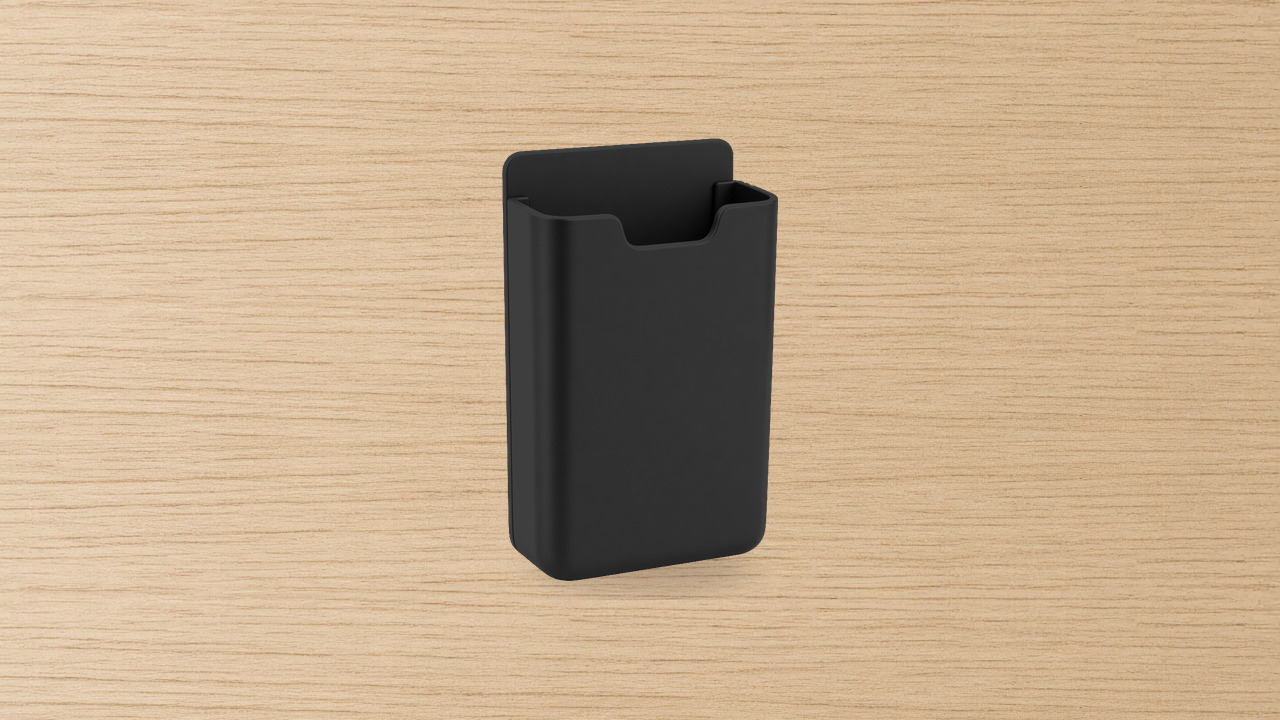
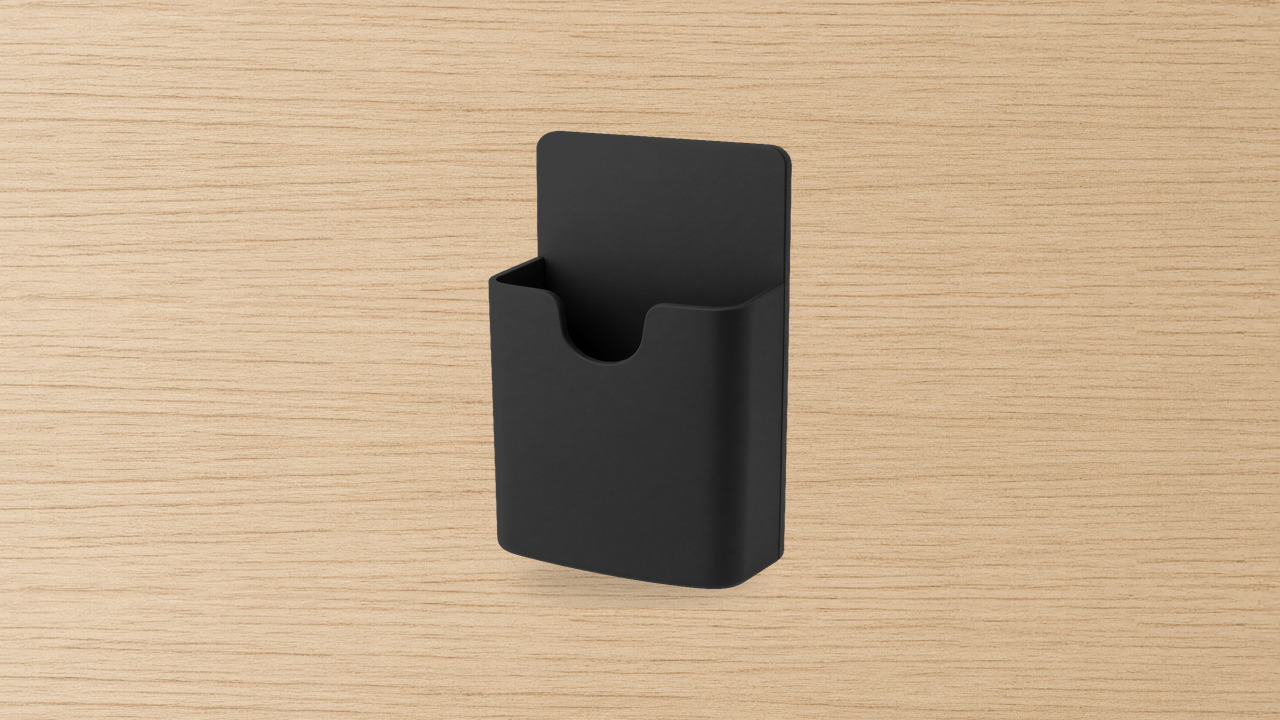
Lower the Fridge Holder front wall and round the U (#67)
Show about 30% of the back panel above the cup, use a smooth rounded U-cutout, and keep the holder about 1.5 times taller than wide. Cache ?v=2.69.

Changed region(s): [[0.375, 0.1833, 0.625, 0.825]]

diff --git a/index.html b/index.html
@@ -9,7 +9,7 @@
   <link rel="preconnect" href="https://fonts.googleapis.com">
   <link rel="preconnect" href="https://fonts.gstatic.com" crossorigin>
   <link href="https://fonts.googleapis.com/css2?family=DM+Sans:opsz,wght@9..40,600&family=Fraunces:opsz,wght@9..144,600&family=Nunito+Sans:wght@500;700;800&display=swap" rel="stylesheet">
-  <link rel="stylesheet" href="css/styles.css?v=2.68">
+  <link rel="stylesheet" href="css/styles.css?v=2.69">
 </head>
 <body>
   <div id="site-header"></div>
@@ -35,7 +35,7 @@
       </a>
       <a class="card" href="weekly.html">
         <div class="thumb thumb-board" aria-hidden="true">
-          <img src="images/weekly-hero.png?v=2.68" width="1280" height="720" alt="">
+          <img src="images/weekly-hero.png?v=2.69" width="1280" height="720" alt="">
         </div>
         <h3>Weekly</h3>
         <p class="muted">Days as rows, people as columns. Empty cells for writing in with the pen.</p>
@@ -59,7 +59,7 @@
       </a>
       <a class="card" href="house-rules.html">
         <div class="thumb thumb-board" aria-hidden="true">
-          <img src="images/house-rules-hero.png?v=2.68" width="1280" height="720" alt="">
+          <img src="images/house-rules-hero.png?v=2.69" width="1280" height="720" alt="">
         </div>
         <h3>House Rules</h3>
         <p class="muted">A5. Header plus empty write-in lines. No pre-filled rules.</p>
@@ -127,7 +127,7 @@
       </a>
       <a class="card" href="coloured-pen-pack.html">
         <div class="thumb thumb-board thumb-pen" aria-hidden="true">
-          <img src="images/coloured-pen-pack-hero.jpg?v=2.68" width="1280" height="720" alt="">
+          <img src="images/coloured-pen-pack-hero.jpg?v=2.69" width="1280" height="720" alt="">
         </div>
         <h3>Coloured Pen 8 Pack</h3>
         <p class="muted">Eight mini dry-erase pens. White barrel, coloured caps.</p>
@@ -135,7 +135,7 @@
       </a>
       <a class="card" href="fridge-holder.html">
         <div class="thumb thumb-board" aria-hidden="true">
-          <img src="images/fridge-holder-hero.jpg?v=2.68" width="1280" height="720" alt="Tall narrow black matte magnetic pen holder with a tall front wall, small U-cutout and rounded back corners, empty, on old wood.">
+          <img src="images/fridge-holder-hero.jpg?v=2.69" width="1280" height="720" alt="Tall narrow black matte magnetic pen holder with a tall front wall, small U-cutout and rounded back corners, empty, on old wood.">
         </div>
         <h3>Fridge Holder</h3>
         <p class="muted">The holder that sticks on the fridge. No pens.</p>
@@ -145,7 +145,7 @@
     </section>
   </main>
   <footer id="site-footer" class="wrap"></footer>
-  <script src="js/store.js?v=2.68"></script>
-  <script src="js/site.js?v=2.68"></script>
+  <script src="js/store.js?v=2.69"></script>
+  <script src="js/site.js?v=2.69"></script>
 </body>
 </html>

diff --git a/weekly.html b/weekly.html
@@ -9,7 +9,7 @@
   <link rel="preconnect" href="https://fonts.googleapis.com">
   <link rel="preconnect" href="https://fonts.gstatic.com" crossorigin>
   <link href="https://fonts.googleapis.com/css2?family=DM+Sans:ital,opsz,wght@0,9..40,500;0,9..40,600;0,9..40,700;1,9..40,500&family=Fraunces:opsz,wght@9..144,600&family=Nunito+Sans:wght@500;700;800&display=swap" rel="stylesheet">
-  <link rel="stylesheet" href="css/styles.css?v=2.68">
+  <link rel="stylesheet" href="css/styles.css?v=2.69">
 </head>
 <body>
   <div id="site-header"></div>
@@ -17,7 +17,7 @@
     <div>
       <div id="hero-stage" class="board-stage photo-stage mount-magnetic size-a4" role="region" aria-label="Weekly board on light wood.">
         <figure id="board-hero" class="hero-photo-frame board-a4 mount-magnetic">
-          <img src="images/weekly-hero.png?v=2.68" width="1280" height="720" alt="Thin white magnetic weekly sheet on light wood, same width as the Routines picture. Mon–Sun day tiles as rows; thin name tiles Georgia, Caleb, and Isaac across the top; empty cells for writing in with the pen.">
+          <img src="images/weekly-hero.png?v=2.69" width="1280" height="720" alt="Thin white magnetic weekly sheet on light wood, same width as the Routines picture. Mon–Sun day tiles as rows; thin name tiles Georgia, Caleb, and Isaac across the top; empty cells for writing in with the pen.">
         </figure>
       </div>
       <p id="hero-caption">3 people · A4</p>
@@ -45,8 +45,8 @@
     </aside>
   </main>
   <footer id="site-footer" class="wrap"></footer>
-  <script src="js/store.js?v=2.68"></script>
-  <script src="js/site.js?v=2.68"></script>
-  <script src="js/photo-board.js?v=2.68"></script>
+  <script src="js/store.js?v=2.69"></script>
+  <script src="js/site.js?v=2.69"></script>
+  <script src="js/photo-board.js?v=2.69"></script>
 </body>
 </html>

diff --git a/coloured-pen-pack.html b/coloured-pen-pack.html
@@ -9,7 +9,7 @@
   <link rel="preconnect" href="https://fonts.googleapis.com">
   <link rel="preconnect" href="https://fonts.gstatic.com" crossorigin>
   <link href="https://fonts.googleapis.com/css2?family=DM+Sans:opsz,wght@9..40,600&family=Fraunces:opsz,wght@9..144,600&family=Nunito+Sans:wght@500;700;800&display=swap" rel="stylesheet">
-  <link rel="stylesheet" href="css/styles.css?v=2.68">
+  <link rel="stylesheet" href="css/styles.css?v=2.69">
 </head>
 <body>
   <div id="site-header"></div>
@@ -17,7 +17,7 @@
     <div>
       <div class="board-stage photo-stage" role="region" aria-label="Coloured Pen 8 Pack.">
         <figure class="hero-photo-frame">
-          <img src="images/coloured-pen-pack-hero.jpg?v=2.68" width="1280" height="720" alt="Eight slim mini dry-erase pens standing on light wood: white barrels with purple, red, orange, yellow, green, pink, blue, and black caps and matching coloured ends. No holder and no logo on the pens.">
+          <img src="images/coloured-pen-pack-hero.jpg?v=2.69" width="1280" height="720" alt="Eight slim mini dry-erase pens standing on light wood: white barrels with purple, red, orange, yellow, green, pink, blue, and black caps and matching coloured ends. No holder and no logo on the pens.">
         </figure>
       </div>
     </div>
@@ -33,8 +33,8 @@
     </aside>
   </main>
   <footer id="site-footer" class="wrap"></footer>
-  <script src="js/store.js?v=2.68"></script>
-  <script src="js/site.js?v=2.68"></script>
-  <script src="js/photo-pack.js?v=2.68"></script>
+  <script src="js/store.js?v=2.69"></script>
+  <script src="js/site.js?v=2.69"></script>
+  <script src="js/photo-pack.js?v=2.69"></script>
 </body>
 </html>

diff --git a/house-rules.html b/house-rules.html
@@ -9,7 +9,7 @@
   <link rel="preconnect" href="https://fonts.googleapis.com">
   <link rel="preconnect" href="https://fonts.gstatic.com" crossorigin>
   <link href="https://fonts.googleapis.com/css2?family=DM+Sans:ital,opsz,wght@0,9..40,500;0,9..40,600;0,9..40,700;1,9..40,500&family=Fraunces:opsz,wght@9..144,600&family=Nunito+Sans:wght@500;700;800&display=swap" rel="stylesheet">
-  <link rel="stylesheet" href="css/styles.css?v=2.68">
+  <link rel="stylesheet" href="css/styles.css?v=2.69">
 </head>
 <body>
   <div id="site-header"></div>
@@ -17,7 +17,7 @@
     <div>
       <div id="hero-stage" class="board-stage photo-stage mount-magnetic size-a5" role="region" aria-label="House Rules board on light wood.">
         <figure id="board-hero" class="hero-photo-frame board-a5 mount-magnetic">
-          <img src="images/house-rules-hero.png?v=2.68" width="1280" height="720" alt="Thin white magnetic House Rules sheet on light wood. House Rules title and empty write-in lines only.">
+          <img src="images/house-rules-hero.png?v=2.69" width="1280" height="720" alt="Thin white magnetic House Rules sheet on light wood. House Rules title and empty write-in lines only.">
         </figure>
       </div>
       <p id="hero-caption">A5</p>
@@ -37,8 +37,8 @@
     </aside>
   </main>
   <footer id="site-footer" class="wrap"></footer>
-  <script src="js/store.js?v=2.68"></script>
-  <script src="js/site.js?v=2.68"></script>
-  <script src="js/photo-board.js?v=2.68"></script>
+  <script src="js/store.js?v=2.69"></script>
+  <script src="js/site.js?v=2.69"></script>
+  <script src="js/photo-board.js?v=2.69"></script>
 </body>
 </html>

diff --git a/fridge-holder.html b/fridge-holder.html
@@ -9,7 +9,7 @@
   <link rel="preconnect" href="https://fonts.googleapis.com">
   <link rel="preconnect" href="https://fonts.gstatic.com" crossorigin>
   <link href="https://fonts.googleapis.com/css2?family=DM+Sans:opsz,wght@9..40,600&family=Fraunces:opsz,wght@9..144,600&family=Nunito+Sans:wght@500;700;800&display=swap" rel="stylesheet">
-  <link rel="stylesheet" href="css/styles.css?v=2.68">
+  <link rel="stylesheet" href="css/styles.css?v=2.69">
 </head>
 <body>
   <div id="site-header"></div>
@@ -17,7 +17,7 @@
     <div>
       <div class="board-stage photo-stage" role="region" aria-label="Fridge Holder.">
         <figure class="hero-photo-frame">
-          <img src="images/fridge-holder-hero.jpg?v=2.68" width="1280" height="720" alt="Tall narrow black matte magnetic pen holder, empty, on old wood. Tall front wall with a small centred U-cutout and rounded back-panel corners.">
+          <img src="images/fridge-holder-hero.jpg?v=2.69" width="1280" height="720" alt="Tall narrow black matte magnetic pen holder, empty, on old wood. Tall front wall with a small centred U-cutout and rounded back-panel corners.">
         </figure>
       </div>
     </div>
@@ -33,8 +33,8 @@
     </aside>
   </main>
   <footer id="site-footer" class="wrap"></footer>
-  <script src="js/store.js?v=2.68"></script>
-  <script src="js/site.js?v=2.68"></script>
-  <script src="js/photo-pack.js?v=2.68"></script>
+  <script src="js/store.js?v=2.69"></script>
+  <script src="js/site.js?v=2.69"></script>
+  <script src="js/photo-pack.js?v=2.69"></script>
 </body>
 </html>

diff --git a/meal-plan.html b/meal-plan.html
@@ -9,7 +9,7 @@
   <link rel="preconnect" href="https://fonts.googleapis.com">
   <link rel="preconnect" href="https://fonts.gstatic.com" crossorigin>
   <link href="https://fonts.googleapis.com/css2?family=DM+Sans:ital,opsz,wght@0,9..40,500;0,9..40,600;0,9..40,700;1,9..40,500&family=Fraunces:opsz,wght@9..144,600&family=Nunito+Sans:wght@500;700;800&display=swap" rel="stylesheet">
-  <link rel="stylesheet" href="css/styles.css?v=2.68">
+  <link rel="stylesheet" href="css/styles.css?v=2.69">
 </head>
 <body>
   <div id="site-header"></div>
@@ -37,8 +37,8 @@
     </aside>
   </main>
   <footer id="site-footer" class="wrap"></footer>
-  <script src="js/store.js?v=2.68"></script>
-  <script src="js/site.js?v=2.68"></script>
-  <script src="js/photo-board.js?v=2.68"></script>
+  <script src="js/store.js?v=2.69"></script>
+  <script src="js/site.js?v=2.69"></script>
+  <script src="js/photo-board.js?v=2.69"></script>
 </body>
 </html>

diff --git a/routines.html b/routines.html
@@ -9,7 +9,7 @@
   <link rel="preconnect" href="https://fonts.googleapis.com">
   <link rel="preconnect" href="https://fonts.gstatic.com" crossorigin>
   <link href="https://fonts.googleapis.com/css2?family=DM+Sans:ital,opsz,wght@0,9..40,500;0,9..40,600;0,9..40,700;1,9..40,500&family=Fraunces:opsz,wght@9..144,600&family=Nunito+Sans:wght@500;700;800&display=swap" rel="stylesheet">
-  <link rel="stylesheet" href="css/styles.css?v=2.68">
+  <link rel="stylesheet" href="css/styles.css?v=2.69">
 </head>
 <body>
   <div id="site-header"></div>
@@ -44,8 +44,8 @@
     </aside>
   </main>
   <footer id="site-footer" class="wrap"></footer>
-  <script src="js/store.js?v=2.68"></script>
-  <script src="js/site.js?v=2.68"></script>
-  <script src="js/photo-board.js?v=2.68"></script>
+  <script src="js/store.js?v=2.69"></script>
+  <script src="js/site.js?v=2.69"></script>
+  <script src="js/photo-board.js?v=2.69"></script>
 </body>
 </html>

diff --git a/shopping-list.html b/shopping-list.html
@@ -9,7 +9,7 @@
   <link rel="preconnect" href="https://fonts.googleapis.com">
   <link rel="preconnect" href="https://fonts.gstatic.com" crossorigin>
   <link href="https://fonts.googleapis.com/css2?family=DM+Sans:ital,opsz,wght@0,9..40,500;0,9..40,600;0,9..40,700;1,9..40,500&family=Fraunces:opsz,wght@9..144,600&family=Nunito+Sans:wght@500;700;800&display=swap" rel="stylesheet">
-  <link rel="stylesheet" href="css/styles.css?v=2.68">
+  <link rel="stylesheet" href="css/styles.css?v=2.69">
 </head>
 <body>
   <div id="site-header"></div>
@@ -37,8 +37,8 @@
     </aside>
   </main>
   <footer id="site-footer" class="wrap"></footer>
-  <script src="js/store.js?v=2.68"></script>
-  <script src="js/site.js?v=2.68"></script>
-  <script src="js/photo-board.js?v=2.68"></script>
+  <script src="js/store.js?v=2.69"></script>
+  <script src="js/site.js?v=2.69"></script>
+  <script src="js/photo-board.js?v=2.69"></script>
 </body>
 </html>

diff --git a/chores.html b/chores.html
@@ -9,7 +9,7 @@
   <link rel="preconnect" href="https://fonts.googleapis.com">
   <link rel="preconnect" href="https://fonts.gstatic.com" crossorigin>
   <link href="https://fonts.googleapis.com/css2?family=DM+Sans:ital,opsz,wght@0,9..40,500;0,9..40,600;0,9..40,700;1,9..40,500&family=Fraunces:opsz,wght@9..144,600&family=Nunito+Sans:wght@500;700;800&display=swap" rel="stylesheet">
-  <link rel="stylesheet" href="css/styles.css?v=2.68">
+  <link rel="stylesheet" href="css/styles.css?v=2.69">
 </head>
 <body>
   <div id="site-header"></div>
@@ -45,8 +45,8 @@
     </aside>
   </main>
   <footer id="site-footer" class="wrap"></footer>
-  <script src="js/store.js?v=2.68"></script>
-  <script src="js/site.js?v=2.68"></script>
-  <script src="js/chores.js?v=2.68"></script>
+  <script src="js/store.js?v=2.69"></script>
+  <script src="js/site.js?v=2.69"></script>
+  <script src="js/chores.js?v=2.69"></script>
 </body>
 </html>

diff --git a/black-pen-pack.html b/black-pen-pack.html
@@ -9,7 +9,7 @@
   <link rel="preconnect" href="https://fonts.googleapis.com">
   <link rel="preconnect" href="https://fonts.gstatic.com" crossorigin>
   <link href="https://fonts.googleapis.com/css2?family=DM+Sans:opsz,wght@9..40,600&family=Fraunces:opsz,wght@9..144,600&family=Nunito+Sans:wght@500;700;800&display=swap" rel="stylesheet">
-  <link rel="stylesheet" href="css/styles.css?v=2.68">
+  <link rel="stylesheet" href="css/styles.css?v=2.69">
 </head>
 <body>
   <div id="site-header"></div>
@@ -37,8 +37,8 @@
     </aside>
   </main>
   <footer id="site-footer" class="wrap"></footer>
-  <script src="js/store.js?v=2.68"></script>
-  <script src="js/site.js?v=2.68"></script>
-  <script src="js/photo-pack.js?v=2.68"></script>
+  <script src="js/store.js?v=2.69"></script>
+  <script src="js/site.js?v=2.69"></script>
+  <script src="js/photo-pack.js?v=2.69"></script>
 </body>
 </html>

diff --git a/pack-chores.html b/pack-chores.html
@@ -9,7 +9,7 @@
   <link rel="preconnect" href="https://fonts.googleapis.com">
   <link rel="preconnect" href="https://fonts.gstatic.com" crossorigin>
   <link href="https://fonts.googleapis.com/css2?family=DM+Sans:opsz,wght@9..40,600&family=Fraunces:opsz,wght@9..144,600&family=Nunito+Sans:wght@500;700;800&display=swap" rel="stylesheet">
-  <link rel="stylesheet" href="css/styles.css?v=2.68">
+  <link rel="stylesheet" href="css/styles.css?v=2.69">
 </head>
 <body>
   <div id="site-header"></div>
@@ -33,8 +33,8 @@
     </aside>
   </main>
   <footer id="site-footer" class="wrap"></footer>
-  <script src="js/store.js?v=2.68"></script>
-  <script src="js/site.js?v=2.68"></script>
-  <script src="js/photo-pack.js?v=2.68"></script>
+  <script src="js/store.js?v=2.69"></script>
+  <script src="js/site.js?v=2.69"></script>
+  <script src="js/photo-pack.js?v=2.69"></script>
 </body>
 </html>

diff --git a/pack-days.html b/pack-days.html
@@ -9,7 +9,7 @@
   <link rel="preconnect" href="https://fonts.googleapis.com">
   <link rel="preconnect" href="https://fonts.gstatic.com" crossorigin>
   <link href="https://fonts.googleapis.com/css2?family=DM+Sans:opsz,wght@9..40,600&family=Fraunces:opsz,wght@9..144,600&family=Nunito+Sans:wght@500;700;800&display=swap" rel="stylesheet">
-  <link rel="stylesheet" href="css/styles.css?v=2.68">
+  <link rel="stylesheet" href="css/styles.css?v=2.69">
 </head>
 <body>
   <div id="site-header"></div>
@@ -33,8 +33,8 @@
     </aside>
   </main>
   <footer id="site-footer" class="wrap"></footer>
-  <script src="js/store.js?v=2.68"></script>
-  <script src="js/site.js?v=2.68"></script>
-  <script src="js/photo-pack.js?v=2.68"></script>
+  <script src="js/store.js?v=2.69"></script>
+  <script src="js/site.js?v=2.69"></script>
+  <script src="js/photo-pack.js?v=2.69"></script>
 </body>
 </html>
